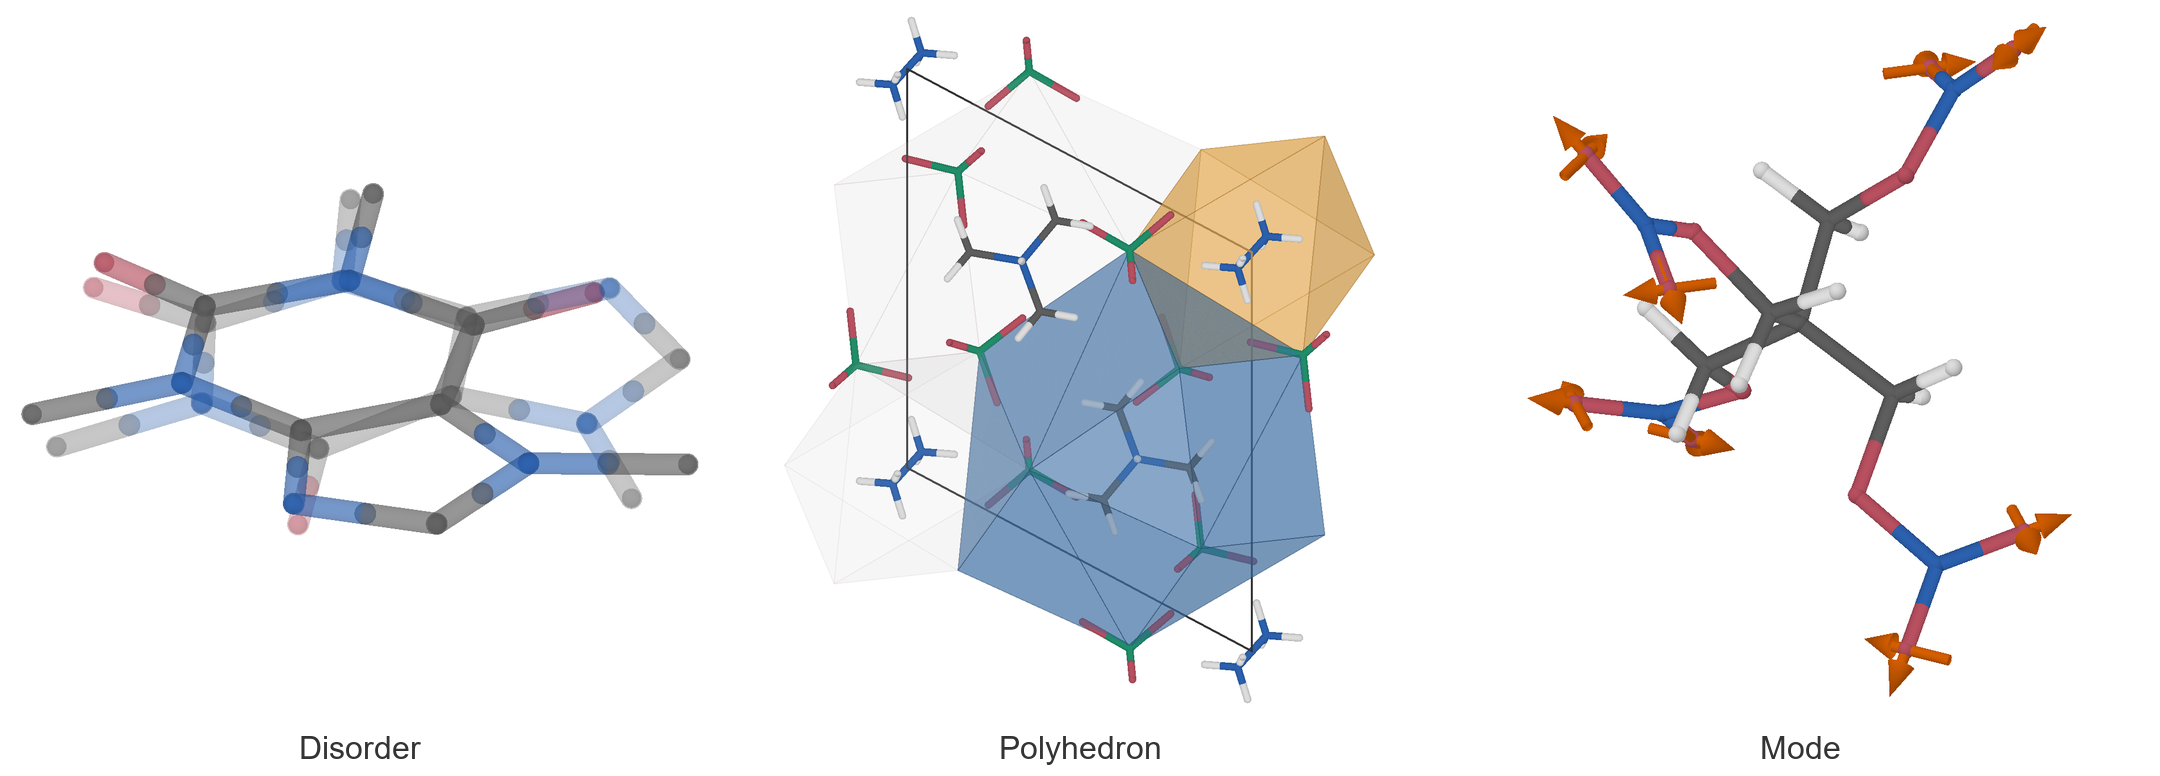
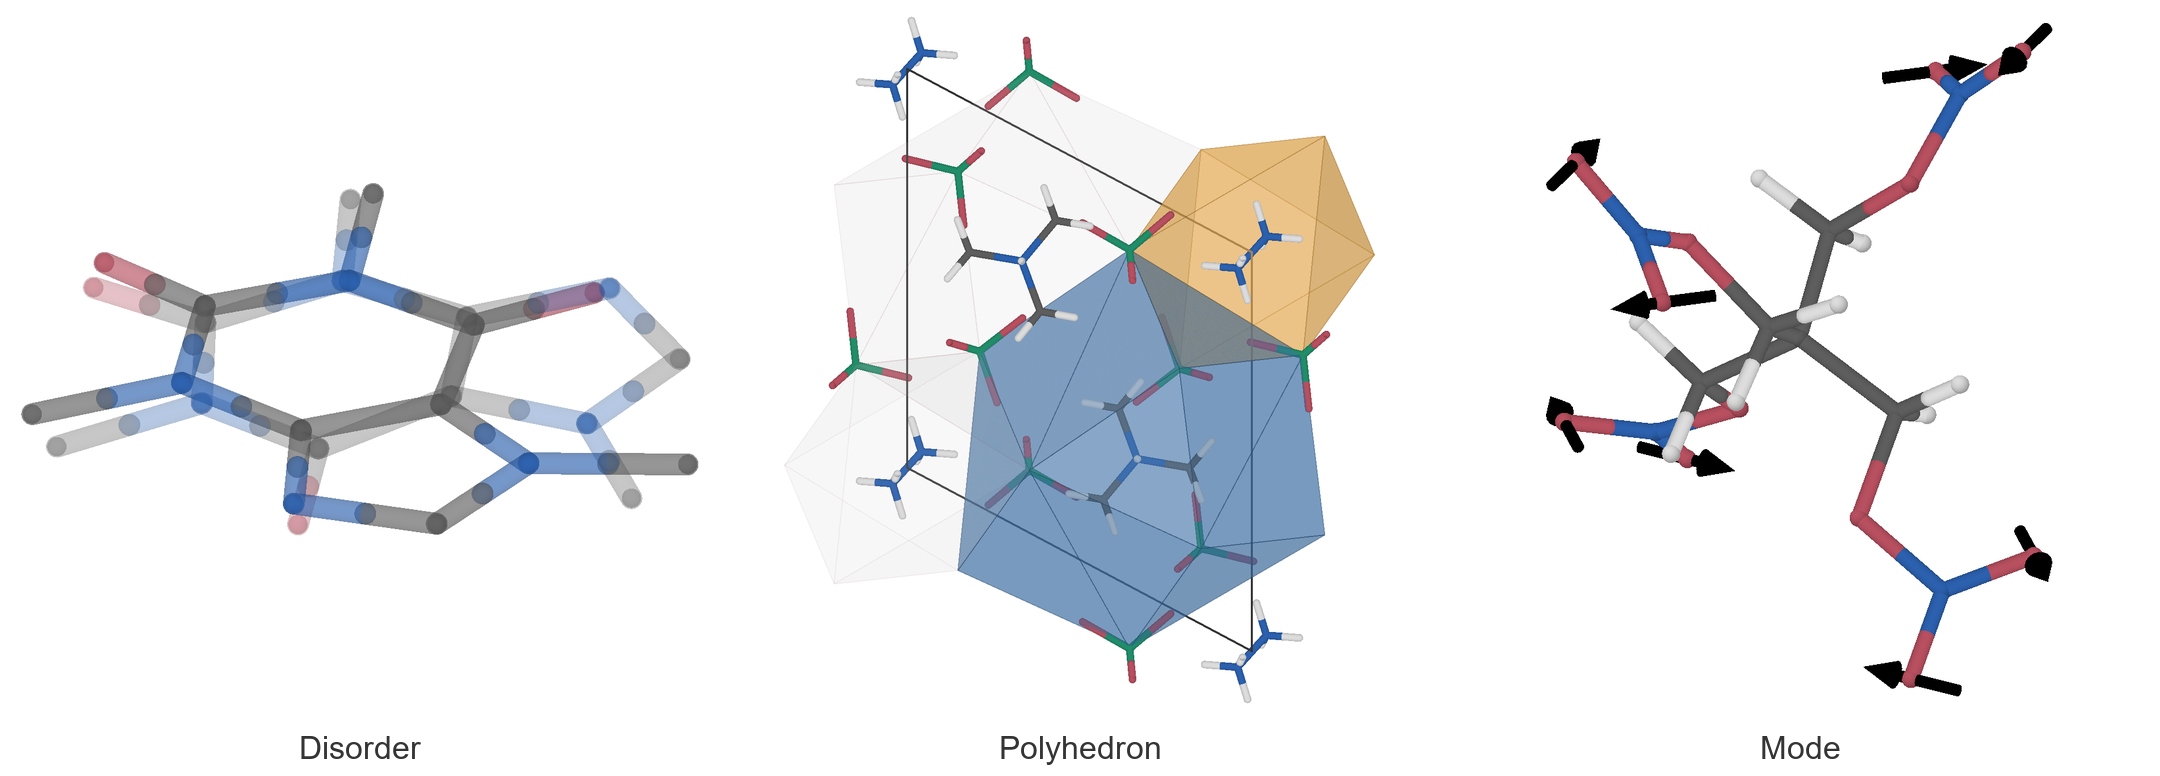
Replace the PETN bond-aligned arrows with black arrows perpendicular to each N-O bond.
The mock displacement should stay visible beside the sticks.

Changed region(s): [[0.7134, 0.0309, 0.9616, 0.8969]]

diff --git a/docs/images/render_panels.py b/docs/images/render_panels.py
@@ -232,12 +232,7 @@ def _unit(vector: np.ndarray) -> np.ndarray:
 
 
 def _write_mode_arrows() -> list[dict]:
-    """Nitrate stretch plus a sideways arrow on each terminal oxygen.
-
-    The stretch lies on the N–O bond and disappears into the stick. The
-    second arrow is perpendicular to that bond, so the displacement stays
-    visible beside the molecule.
-    """
+    """One black arrow on each terminal oxygen, perpendicular to the N–O bond."""
     lines = PETN.read_text(encoding="utf-8").splitlines()
     count = int(lines[0].split()[0])
     atoms = []
@@ -261,16 +256,15 @@ def _write_mode_arrows() -> list[dict]:
         along = _unit(origin - nitrogen)
         reference = np.array([0.0, 0.0, 1.0]) if abs(float(along[2])) < 0.85 else np.array([1.0, 0.0, 0.0])
         sideways = _unit(np.cross(along, reference))
-        arrows.append({"id": f"stretch-{index}", "origin": origin.round(4).tolist(), "vector": (along * 1.35).round(4).tolist()})
-        arrows.append({"id": f"wag-{index}", "origin": origin.round(4).tolist(), "vector": (sideways * 1.25).round(4).tolist()})
+        arrows.append({"id": f"wag-{index}", "origin": origin.round(4).tolist(), "vector": (sideways * 1.35).round(4).tolist()})
     payload = [
         {
             "id": "mode",
             "magnitude_mode": "absolute",
             "anchor": "center",
             "viewport_policy": "include",
-            "color": "#D55E00",
-            "note": "Mock nitrate motion. Stretch arrows follow N-O; wag arrows are perpendicular to the bond. Not a phonon.",
+            "color": "#000000",
+            "note": "Mock nitrate motion perpendicular to each N-O bond. Not a phonon.",
             "style": {
                 "shaft_radius": 0.075,
                 "head_radius_ratio": 2.4,

diff --git a/docs/images/compose_readme.py b/docs/images/compose_readme.py
@@ -3,7 +3,7 @@
 The three panels occupy equal thirds. ``render_panels.py`` draws them:
 disorder fades atoms and bonds by occupancy, DAP-7 is viewed straight down
 the b axis with one A hull and one B hull kept visible, and PETN carries a
-mock nitrate stretch plus a perpendicular arrow on each terminal oxygen.
+black mock arrow on each terminal oxygen, perpendicular to the N–O bond.
 
     PYTHONPATH=. python docs/images/render_panels.py
 
@@ -16,7 +16,7 @@ mock nitrate stretch plus a perpendicular arrow on each terminal oxygen.
       --camera-distance 1.35 --framing-margin 1.08 \\
       --width 800 --height 800 --scale 2
 
-The PETN arrows are a mock nitrate stretch, not a phonon.
+The PETN arrows are a mock displacement perpendicular to the N–O bonds, not a phonon.
 """
 
 from __future__ import annotations
